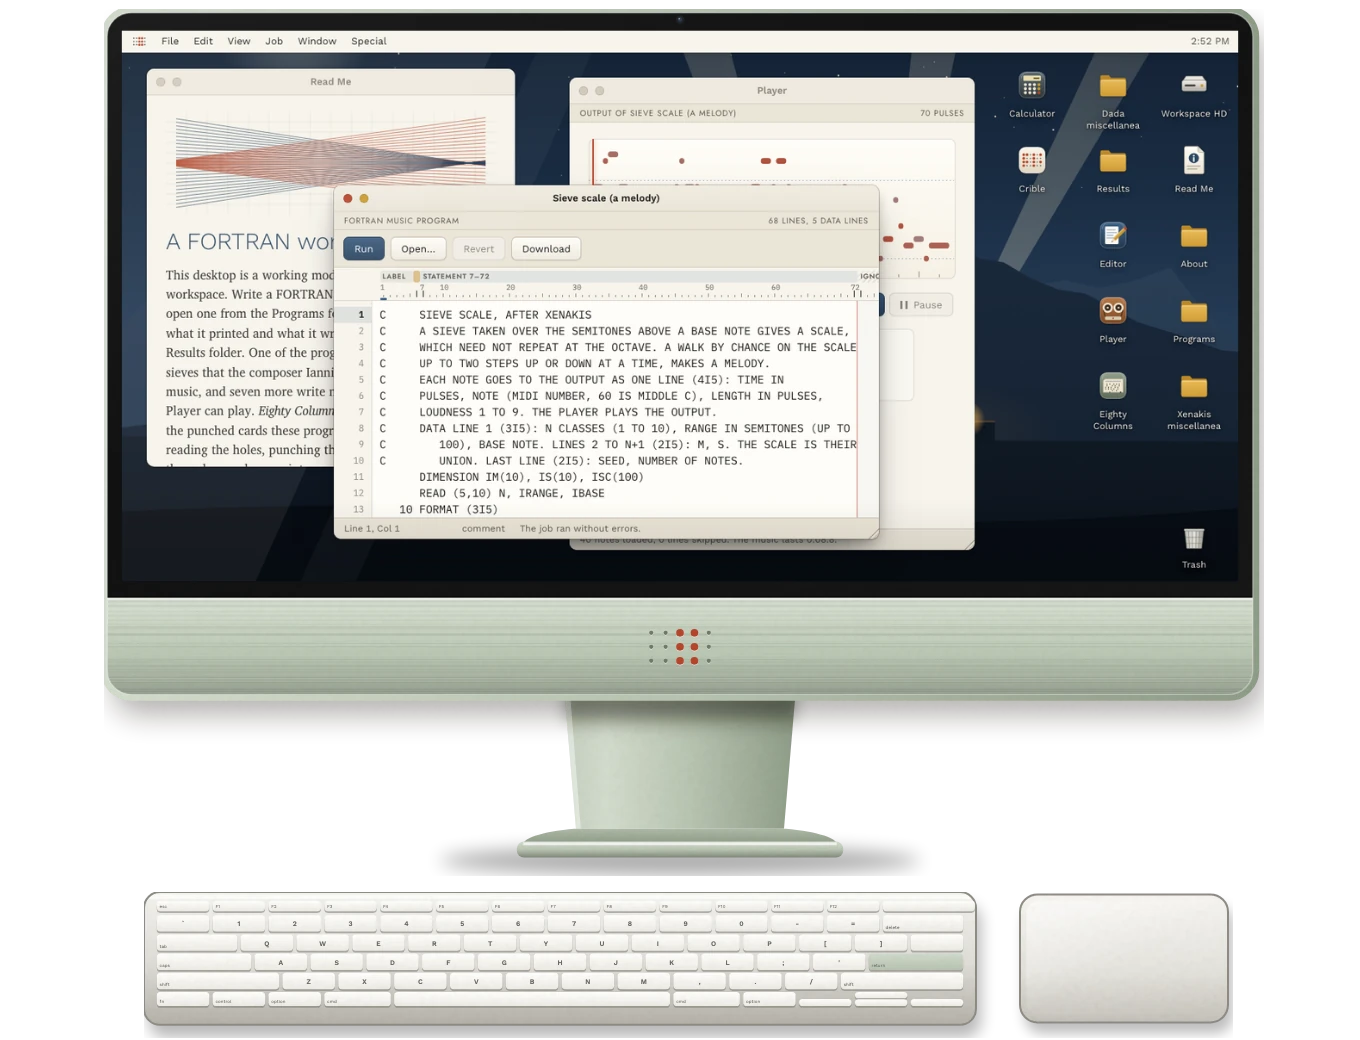
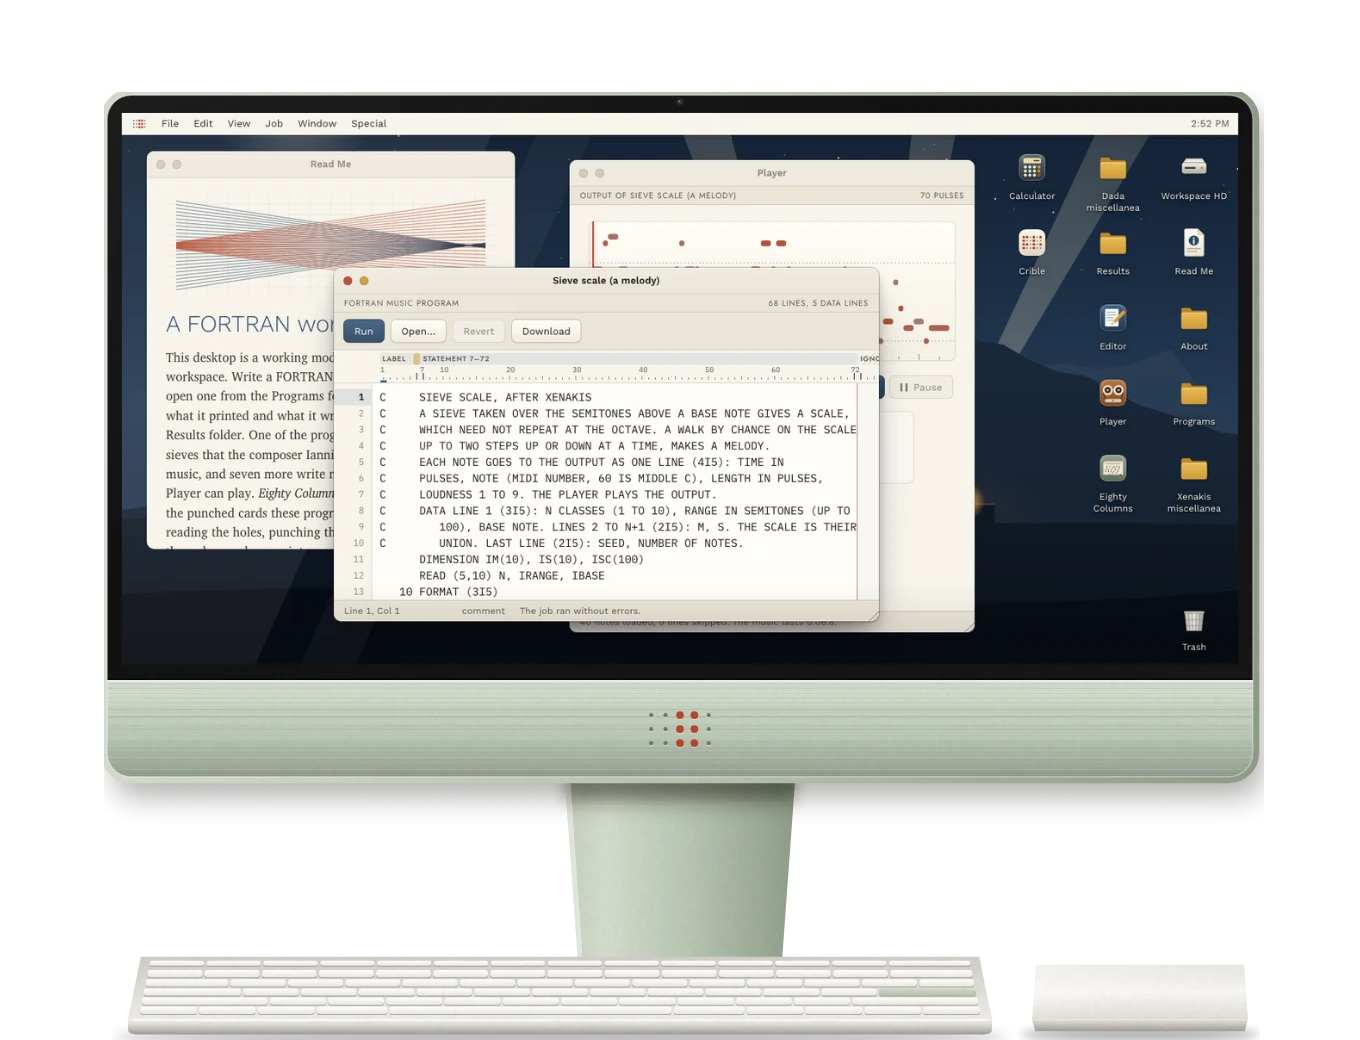
Finish Version 22 (completed)
The room's modern computer stands on the desk behind a keyboard and trackpad
drawn as the room is seen; the lamp can be swapped among four; the snake
plant and the kentia palm are drawn again.

diff --git a/v22/decor.js b/v22/decor.js
@@ -1,5 +1,5 @@
 /* The room's things that can be swapped: the three prints on the wall (one pinned up behind
-   the shelf), the plant at each end
+   the shelf), the lamp, the plant at each end
    of the floor, the plant on the desk and the mug. Each is a button; pressing it puts the
    next of its kind in its place, the picture fading out and the next fading in once it has
    loaded. Every kind is drawn in the same box as the first, so each takes the same place.
@@ -35,6 +35,11 @@
       [V21 + 'pothos.webp', 'a pothos trailing over the desk'],
       [OWN + 'desk-jade.webp', 'a jade plant in a celadon bowl'],
       [OWN + 'desk-cacti.webp', 'three cacti in a terracotta pot']] },
+    'lamp': { what: 'the lamp', items: [
+      [V21 + 'lamp.webp', 'a black task lamp on a curved arm, its shade turned to the desk'],
+      [OWN + 'lamp-dome.webp', 'a white dome lamp on a flared stem'],
+      [OWN + 'lamp-angle.webp', 'a terracotta balanced-arm lamp on springs'],
+      [OWN + 'lamp-ceramic.webp', 'an ochre ceramic lamp with a linen drum shade']] },
     'mug': { what: 'the mug', items: [
       [V21 + 'mug.webp', 'a cream mug dipped in terracotta'],
       [OWN + 'mug-sage.webp', 'a sage mug'],
@@ -56,6 +61,7 @@
     var kind = KINDS[b.getAttribute('data-swap')], img = b.querySelector('img'), busy = false;
     var at = Math.floor(Math.random() * kind.items.length);
     if (at) img.src = kind.items[at][0];
+    b.setAttribute('data-v', at);
     label(b, at);
     b.addEventListener('click', function () {
       if (busy) return;
@@ -67,6 +73,7 @@
       var ready = next.decode ? next.decode().catch(function () {}) : Promise.resolve();
       Promise.all([fade, ready]).then(function () {
         img.src = item[0];
+        b.setAttribute('data-v', at);
         b.classList.remove('fading');
         label(b, at);
         status.textContent = '';

diff --git a/v22/style.css b/v22/style.css
@@ -265,6 +265,11 @@ td code { white-space: nowrap; }
 .lamp { position: absolute; left: 10.6em; top: 19.4em; width: 7em; height: 10.6em; filter: var(--cast); }
 .lamp img { position: relative; display: block; width: 100%; height: 100%; }
 .lamp::before { content: ""; position: absolute; left: 3.6em; top: 1.4em; width: 16em; height: 9.6em; background: radial-gradient(ellipse 50% 45% at 30% 72%, rgba(255, 214, 150, 0.55), rgba(255, 220, 160, 0.16) 55%, transparent 75%); transform: rotate(12deg); transform-origin: 0 0; pointer-events: none; mix-blend-mode: multiply; filter: saturate(0.8); }
+/* each lamp casts its own light: the dome and the drum light all round them, the
+   balanced-arm lamp, like the first, down and across the desk */
+.lamp[data-v="1"]::before { left: -2.4em; top: 3.4em; width: 11em; height: 8em; transform: none; background: radial-gradient(ellipse 50% 50% at 48% 62%, rgba(255, 214, 150, 0.5), rgba(255, 220, 160, 0.14) 55%, transparent 75%); }
+.lamp[data-v="2"]::before { left: 3.2em; top: 2.4em; transform: rotate(8deg); }
+.lamp[data-v="3"]::before { left: -3.4em; top: 0.2em; width: 12em; height: 10em; transform: none; background: radial-gradient(ellipse 50% 50% at 46% 38%, rgba(255, 214, 150, 0.5), rgba(255, 220, 160, 0.14) 55%, transparent 75%); }
 
 /* --- the things on the desk, set by hand in loose groups: the lamp, the pothos, the coding
    form and a mug at the left; the out tray by the computer; the tape player at the end. The

diff --git a/v22/index.html b/v22/index.html
@@ -65,7 +65,7 @@
       <span class="desk-body" aria-hidden="true"><span class="leg leg-l"></span><span class="leg leg-r"></span></span>
       <button type="button" class="swap plant plant-l" data-swap="floor-l"><img src="../v21/assets/plant-fig.webp" width="660" height="1260" alt=""></button>
       <button type="button" class="swap plant plant-r" data-swap="floor-r"><img src="../v21/assets/plant-monstera.webp" width="840" height="960" alt=""></button>
-      <span class="lamp" aria-hidden="true"><img src="../v21/assets/lamp.webp" width="420" height="636" alt=""></span>
+      <button type="button" class="swap lamp" data-swap="lamp"><img src="../v21/assets/lamp.webp" width="420" height="636" alt=""></button>
       <button type="button" class="swap pothos" data-swap="desk-plant"><img src="../v21/assets/pothos.webp" width="600" height="696" alt=""></button>
       <button type="button" class="swap mug" data-swap="mug"><img src="../v21/assets/mug.webp" width="192" height="180" alt=""></button>
       <span class="stool" aria-hidden="true"><img src="../v21/assets/stool.webp" width="504" height="552" alt=""></span>

diff --git a/docs/version-designs.md b/docs/version-designs.md
@@ -198,8 +198,8 @@ Fonts: Playfair Display, Jost, IBM Plex Mono. |
 - **The icons** are vector symbols in one hidden sprite built once by `icons.js` (in place of v20's `pixels.js`), each a 48-unit square used where it is shown: documents share one sheet with its corner turned and a picture of what they hold (lines, columns of figures, a staff with a terracotta note, a framed landscape, a little punched card for a program), applications share one rounded tile in a colour of their own (the Editor's blue with a pencil across a sheet, the Player's teak with two reels, Eighty Columns' sage with a card, the Calculator's slate, Crible's ivory with the sieve 3@0 | 4@1 as points), folders are mustard, the Trash a wire basket, full with crumpled paper. The menu bar's glyph is still the sieve 5@2 | 5@3.
 - **The pictures are SVG files** (`v22/assets/screen/`), flat colour in the manner of the period's travel posters, with their type outlined from the bundled faces. The desk picture is a night at Persepolis for the Polytope of 1971: the Milky Way across the sky, a low moon with its maria, soft searchlight beams with dust in them crossing over Kuh-e Rahmat, the mountain's rock facets and the cruciform royal tombs cut in its face, the torch-bearers' river of fire climbing it in switchbacks with its glow, and the terrace in silhouette against its bonfires (the stepped merlons of its parapet, the great stair, the Gate's piers with their winged bulls, fluted columns on bell bases with bull capitals) with the audience along its edge. The Read Me's two fans of glissandi are on graph paper, bars 309 to 314 along the foot. The nine About plates, one to a document, carry real type: a coding sheet with the program pencilled in its fields and the margin at 72; a program, its END and its data in another ink; windows on the desk with their titles; DO loops nested with their labels; fan-fold paper printed with a program's table; a ruled surface lettered at its corners; a sieve's members raised over numbered points; a piano roll with its octaves; a tape's reels, their spokes and packs, its wave and a level meter. The large numerals are type, not pictures. The miscellanea's Xenakis pictures are the room's engraved plates (`v21/assets/misc/`), so a drawing looks the same in the portfolio on the shelf and on the screen; Ball in his cardboard costume and Tzara's hat, with its words outlined from IBM Plex Mono, are drawn new. Duchamp's threads and Arp's squares are drawn as SVG in the page, afresh at each opening or press, so every fall is new: each thread a metre whose heading wanders as three slow waves of chance phase and size, let fall flatter if it would leave its strip, the span between its ends ruled and measured under it; a dozen squares and oblongs torn along their edges and dropped near square to the sheet. The Player's roll and the Calculator's card are SVG too: notes as rounded bars coloured from a pale blue to terracotta by loudness, a dotted line at every C; the card cream with its corner cut, a slot for each hole and a blue point for each unpunched digit.
 - **The tones** that coded difficulty as hatches are flat colours, seven steps from sand to walnut (`--tone-0` to `--tone-6`): the swatches, the progress index, the sheets' bands and their numerals, light Work Sans in the sheet's tone.
-- **The room's computer** is a modern one, drawn in detail in the room's manner (`v22/assets/computer-room.webp`, at 8 px a unit): a thin all-in-one after the coloured machines of the 2020s, in the room's sage. Its glass runs edge to edge under a narrow black border, with the camera at its head and a soft reflection of the window across it; the chin is sage aluminium brushed across, with the desktop's sieve of points engraved in it; the shell's rim shows along the sides. The stand is one sage sheet bent back to its foot, lit at its left edge, the chin's shadow across its top. The keyboard is a slim slab with a function row, the full rows of low keys with their legends, a sage Return and the inverted T of arrows; beside it, a glass trackpad. On the glass is the desktop itself, captured from v22's computer page (the Read Me, the Player with a sieve's melody on its roll, and the Editor with that program), so the picture and the computer agree. Opened, the display is face on in a nine-slice frame of the same border and brushed chin (`v22/assets/bezel.webp`), with the camera, the engraved mark and the stand's sage neck below.
-- **Swapping things in the room** (`decor.js`): the three prints (the two framed on the wall and the one pinned up behind the shelf), the plant at each end of the floor, the plant on the desk and the mug are buttons; pressing one puts the next of its kind in its place, fading the picture out and the next in once it has loaded, and says what is there now. Each kind is drawn in its first's box, so it takes the same place: for the wide frame, v21's sieve print, a screen print of the Philips Pavilion (its shells as ruled hyperbolic paraboloids in slate, terracotta and blue, under an ochre sun) and a Polytope (cables in catenaries across a dark hall, after Montréal, 1967, with its points of light); for the narrow frame, the Dada poster, a collage of torn squares after Arp and a grid of flat colours and circles after Sophie Taeuber-Arp; behind the shelf, v21's ochre paraboloids (now drawn apart from the shelf, `v22/assets/shelf.webp` being the board and ladders alone), the glissandi of *Metastaseis* in slate and terracotta on a pale blue, and *Psappha*'s first 40 pulses in five rows of eight, the 27 struck as black discs (after Flint's reconstruction, as in the miscellanea); at the left, the fiddle-leaf fig, a snake plant ('Laurentii', banded, its margins yellow) in a tall slate pot on a teak plinth, and a kentia palm in a rattan basket; at the right, the monstera, a Boston fern spilling from an ochre pot on hairpin legs, and a rubber plant ('Burgundy', a red sheath at each new leaf) in a white pot; on the desk, the pothos, a jade in a celadon bowl and three cacti in terracotta, one in flower; and seven cups: the terracotta-dipped mug, a sage mug, one banded in ochre and slate after Arabia's stripes, a speckled enamel mug rimmed in blue, one printed with a sieve in terracotta points, a black stoneware mug with a white ring, and a white cup on its saucer with a blue band. They are rendered from vector art as the room's other things are, and kept in `v22/assets/`.
+- **The room's computer** is a modern one, drawn in detail in the room's manner (`v22/assets/computer-room.webp`, at 8 px a unit): a thin all-in-one after the coloured machines of the 2020s, in the room's sage. Its glass runs edge to edge under a narrow black border, with the camera at its head and a soft reflection of the window across it; the chin is sage aluminium brushed across, with the desktop's sieve of points engraved in it; the shell's rim shows along the sides. The stand is one sage sheet bent back to its foot, lit at its left edge, the chin's shadow across its top, and its foot rests on the desk behind the keyboard, so the display stands on the desk rather than over the keys. The keyboard and the glass trackpad are seen as the room is seen, from the front and a little above: thin wedges on the desk, their tops foreshortened, the keyboard's six rows of low keys (a sage Return among them) foreshortened with it. On the glass is the desktop itself, captured from v22's computer page (the Read Me, the Player with a sieve's melody on its roll, and the Editor with that program), so the picture and the computer agree. Opened, the display is face on in a nine-slice frame of the same border and brushed chin (`v22/assets/bezel.webp`), with the camera, the engraved mark and the stand's sage neck below.
+- **Swapping things in the room** (`decor.js`): the three prints (the two framed on the wall and the one pinned up behind the shelf), the lamp, the plant at each end of the floor, the plant on the desk and the mug are buttons; pressing one puts the next of its kind in its place, fading the picture out and the next in once it has loaded, and says what is there now. Each kind is drawn in its first's box, so it takes the same place: for the wide frame, v21's sieve print, a screen print of the Philips Pavilion (its shells as ruled hyperbolic paraboloids in slate, terracotta and blue, under an ochre sun) and a Polytope (cables in catenaries across a dark hall, after Montréal, 1967, with its points of light); for the narrow frame, the Dada poster, a collage of torn squares after Arp and a grid of flat colours and circles after Sophie Taeuber-Arp; behind the shelf, v21's ochre paraboloids (now drawn apart from the shelf, `v22/assets/shelf.webp` being the board and ladders alone), the glissandi of *Metastaseis* in slate and terracotta on a pale blue, and *Psappha*'s first 40 pulses in five rows of eight, the 27 struck as black discs (after Flint's reconstruction, as in the miscellanea); for the lamp, v21's black task lamp, a white dome lamp on a flared stem, a terracotta balanced-arm lamp on its springs and an ochre ceramic lamp with a linen drum shade, each casting its own light on the desk and the wall (by `data-v` on the button); at the left, the fiddle-leaf fig, a snake plant ('Laurentii': broad flat sword leaves that turn as they rise, banded across in grey-green zigzags, with thick golden margins and hard points) in a tall slate pot on a teak plinth, and a kentia palm (a few long fronds arching from a cluster of stems, their leaflets set evenly and drooping) in a rattan basket; at the right, the monstera, a Boston fern spilling from an ochre pot on hairpin legs, and a rubber plant ('Burgundy', a red sheath at each new leaf) in a white pot; on the desk, the pothos, a jade in a celadon bowl and three cacti in terracotta, one in flower; and seven cups: the terracotta-dipped mug, a sage mug, one banded in ochre and slate after Arabia's stripes, a speckled enamel mug rimmed in blue, one printed with a sieve in terracotta points, a black stoneware mug with a white ring, and a white cup on its saucer with a blue band. They are rendered from vector art as the room's other things are, and kept in `v22/assets/`.
 - **The wallpaper** changes too, from *Change the wallpaper* in the room's menu or by clicking the bare wall: v21's deep blue ogee; a sage paper of cream starbursts and ochre boomerangs; a burnt umber diamond trellis with cream buds; and an ivory grasscloth in fine vertical stripes of sand, slate and ochre; the sage paper's stars ringed by orbits, with sparkles between, and the trellis with small leaves along it (`v22/assets/wall-*.svg`, seamless tiles hung to the em). Each is a tile and a ground in `style.css`, chosen by `data-paper` on the room.
 - **Moving things** (`arrange.js`): the coding form, the out tray, the computer, the tape player, the lamp, the desk's plant and the mug slide along the desk, and the stool along the floor. Dragged, a thing follows the pointer within the desk's length and rides above the rest; a press that does not move still takes it up (or swaps it). Alt (Option) with the left or right arrow moves the focused thing an em, Shift with them four. Places are in em, so they scale with the room.
 - **Each opening is new:** every swappable place and the wall take a kind chosen by chance each time the page loads. Nothing is stored from one opening to the next.
